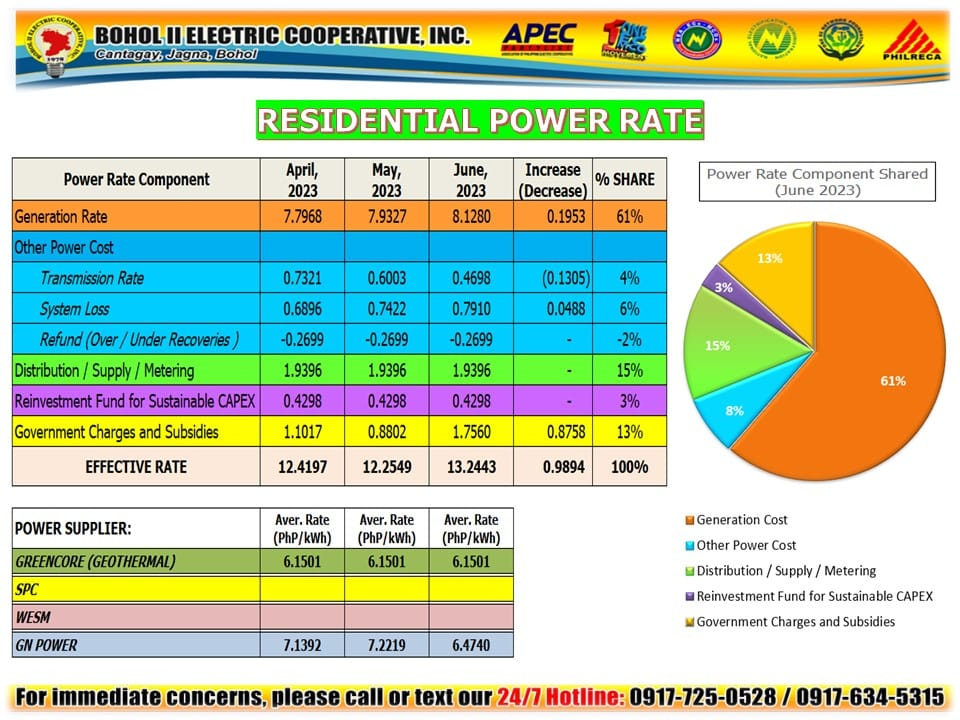
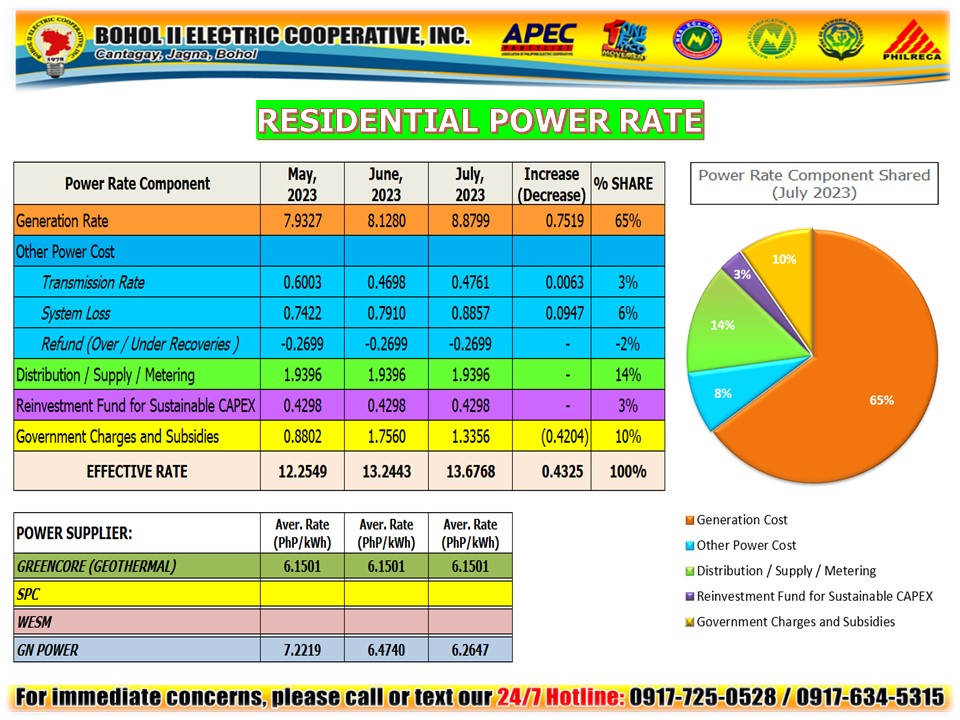
july 2023 rates & gen charge update

diff --git a/src/components/GenRates.jsx b/src/components/GenRates.jsx
@@ -6,7 +6,7 @@ const img = [
   "assets/rates/gr2.png",
 ];
 
-const months = ["June", "May", "April"];
+const months = ["July", "June", "May"];
 
 const Rates = () => {
   return (
